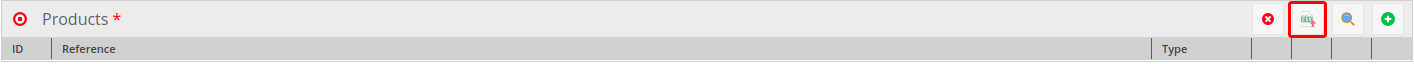
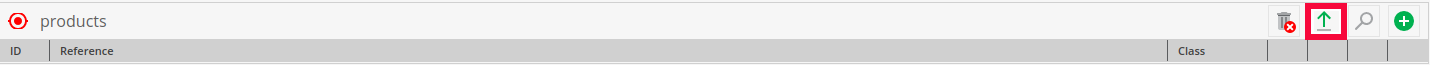
support for pimcore version > 5.6

diff --git a/Resources/public/js/pimcore/helpers.js b/Resources/public/js/pimcore/helpers.js
@@ -24,80 +24,55 @@ pimcore.objectsWithCsv.helpers.listify = function (data, textTobeAttached = null
     return response
 };
 
-pimcore.objectsWithCsv.helpers.showPrettyMessage = function (type, title, text, errorText, stack, code) {
+pimcore.objectsWithCsv.helpers.showPrettyMessage = function (type, title, text, errorText, detailText) {
     // types: info,error,success
-    if (errorText != null && errorText != undefined) {
-        if (t(errorText) != "~" + errorText + "~") {
-            errorText = t(errorText);
-        }
-
-        text = text + '<br /><hr />' +
-            '<span style="font-size:12px">'
-            + '<b>' + errorText + '</b>' +
-            "</span>";
-
-    }
-    if (stack) {
-        stack = str_replace("#", "<br>#", stack);
-        var htmlValue = '<a href="#">' + t("details") + '</a>';
-        var detailedInfo = {
-            xtype: "displayfield",
-            readOnly: true,
-            value: htmlValue,
-            width: 300,
-            listeners: {
-                render: function (c) {
-                    c.getEl().on('click', function () {
-                        var detailedWindow = new Ext.Window({
-                            modal: true,
-                            title: t('details'),
-                            width: 1000,
-                            height: 600,
-                            html: stack,
-                            autoScroll: true,
-                            bodyStyle: "padding: 10px; background:#fff;",
-                            buttonAlign: "center",
-                            shadow: false,
-                            closable: true,
-                            buttons: [{
-                                text: t("OK"),
-                                handler: function () {
-                                    detailedWindow.close();
-                                }
-                            }]
-                        });
-                        detailedWindow.show();
-                    }, c);
-                }.bind(this)
-            }
-        };
+    if (detailText) {
+        detailText =
+            '<pre style="font-size:11px;word-wrap: break-word;">'
+            + detailText +
+            "</pre>";
     }
 
-    if (code) {
-        title = title + " " + code;
-    }
     var errWin = new Ext.Window({
         modal: true,
-        iconCls: 'pimcore_icon_' + type,
+        iconCls: "pimcore_icon_" + type,
         title: title,
-        width: 600,
-
-        layout: 'vbox',
-        items: [
-            {
-                xtype: 'panel',
-                html: text,
-                width: '100%'
-            },
-            detailedInfo
-        ],
+        width: 700,
+        maxHeight: 500,
+        html: text + '<br>' + errorText,
         autoScroll: true,
-        bodyStyle: "padding: 10px; background:#fff;",
+        bodyStyle: "padding: 10px;",
         buttonAlign: "center",
         shadow: false,
         closable: false,
         buttons: [{
-            text: "OK",
+            text: t("details"),
+            hidden: !detailText,
+            handler: function () {
+                errWin.close();
+
+                var detailWindow = new Ext.Window({
+                    modal: true,
+                    title: t('details'),
+                    width: 1000,
+                    height: '95%',
+                    html: detailText,
+                    autoScroll: true,
+                    bodyStyle: "padding: 10px;",
+                    buttonAlign: "center",
+                    shadow: false,
+                    closable: true,
+                    buttons: [{
+                        text: t("OK"),
+                        handler: function () {
+                            detailWindow.close();
+                        }
+                    }]
+                });
+                detailWindow.show();
+            }
+        }, {
+            text: t("OK"),
             handler: function () {
                 errWin.close();
             }
@@ -105,4 +80,21 @@ pimcore.objectsWithCsv.helpers.showPrettyMessage = function (type, title, text, 
     });
     errWin.show();
 
+};
+
+pimcore.objectsWithCsv.helpers.addCsrfTokenToUrl = function (url) {
+
+    // only for /admin urls
+    if(url.indexOf('/admin') !== 0) {
+        return url;
+    }
+
+    if (url.indexOf('?') === -1) {
+        url = url + "?";
+    } else {
+        url = url + "&";
+    }
+    url = url + 'csrfToken=' + pimcore.settings['csrfToken'];
+
+    return url;
 };

diff --git a/Resources/public/js/pimcore/objects/classes/tags/objectsWithCsv.js b/Resources/public/js/pimcore/objects/classes/tags/objectsWithCsv.js
@@ -1,5 +1,5 @@
 pimcore.registerNS('pimcore.object.tags.objectsWithCsv');
-pimcore.object.tags.objectsWithCsv = Class.create(pimcore.object.tags.objects, {
+pimcore.object.tags.objectsWithCsv = Class.create(pimcore.object.tags.manyToManyObjectRelation, {
     type: "objectsWithCsv",
     getEditToolbarItems: function () {
         var toolbarItems = [
@@ -21,7 +21,7 @@ pimcore.object.tags.objectsWithCsv = Class.create(pimcore.object.tags.objects, {
             },
             {
                 xtype: "button",
-                icon: '/bundles/objectswithcsv/img/csv-import.svg',
+                icon: '/bundles/objectswithcsv/img/upload.svg',
                 handler: function () {
                     var objRef = this;
                     var uploadWindowCompatible = new Ext.Window({
@@ -32,9 +32,7 @@ pimcore.object.tags.objectsWithCsv = Class.create(pimcore.object.tags.objects, {
                         modal: true
                     });
 
-                    var url = '/admin/objects-with-csv/parse';
-                    url = pimcore.helpers.addCsrfTokenToUrl(url);
-                    
+                    var url = pimcore.objectsWithCsv.helpers.addCsrfTokenToUrl('/admin/objects-with-csv/parse');
                     var allowedClass = '';
 
                     this.fieldConfig.classes.forEach(function (data) {

diff --git a/Resources/public/js/pimcore/objects/classes/data/objectsWithCsv.js b/Resources/public/js/pimcore/objects/classes/data/objectsWithCsv.js
@@ -1,5 +1,5 @@
 pimcore.registerNS('pimcore.object.classes.data.objectsWithCsv');
-pimcore.object.classes.data.objectsWithCsv = Class.create(pimcore.object.classes.data.objects, {
+pimcore.object.classes.data.objectsWithCsv = Class.create(pimcore.object.classes.data.manyToManyObjectRelation, {
     type: 'objectsWithCsv',
 
     initialize: function (treeNode, initData) {
@@ -35,7 +35,7 @@ pimcore.object.classes.data.objectsWithCsv = Class.create(pimcore.object.classes
      * @returns {string}
      */
     getIconClass: function () {
-        return "pimcore_icon_multihref";
+        return "pimcore_icon_manyToManyObjectRelation";
     }
 
 

diff --git a/ObjectsWithCsvBundle.php b/ObjectsWithCsvBundle.php
@@ -28,6 +28,22 @@ class ObjectsWithCsvBundle extends AbstractPimcoreBundle
      */
     public function getVersion()
     {
-        return '1.0.2';
+        return '2.0.0';
+    }
+
+    /**
+     * Returns the bundle name that this bundle overrides.
+     *
+     * Despite its name, this method does not imply any parent/child relationship
+     * between the bundles, just a way to extend and override an existing
+     * bundle.
+     *
+     * @return string The Bundle name it overrides or null if no parent
+     *
+     * @deprecated This method is deprecated as of 3.4 and will be removed in 4.0.
+     */
+    public function getParent()
+    {
+        // TODO: Implement getParent() method.
     }
 }

diff --git a/Controller/ObjectsWithCsvController.php b/Controller/ObjectsWithCsvController.php
@@ -127,6 +127,7 @@ class ObjectsWithCsvController extends FrontendController
     protected function retrieveDataObjects($allowedClasses, $key, $searchValues)
     {
         $dataObjectsArray = [];
+        $retrievedObjectsIdentifiers = [];
 
         foreach ($allowedClasses as $class) {
             if (class_exists($className = "\\Pimcore\\Model\\DataObject\\" . ucfirst($class))) {

diff --git a/Model/DataObject/ClassDefinition/Data/ObjectsWithCsv.php b/Model/DataObject/ClassDefinition/Data/ObjectsWithCsv.php
@@ -8,9 +8,9 @@
 
 namespace ObjectsWithCsvBundle\Model\DataObject\ClassDefinition\Data;
 
-use Pimcore\Model\DataObject\ClassDefinition\Data\Objects;
+use Pimcore\Model\DataObject\ClassDefinition\Data\ManyToManyObjectRelation;
 
-class ObjectsWithCsv extends Objects
+class ObjectsWithCsv extends ManyToManyObjectRelation
 {
     public $fieldtype = 'objectsWithCsv';
 }

diff --git a/README.md b/README.md
@@ -2,15 +2,15 @@
 
 Facilitates user to upload csv file for bulk attaching to objects datatype using csv upload functionality.
 
-![DataObject Edit Form](/Docs/images/form.png "Dataobject Edit Form")
+![DataObject Edit Form](Docs/images/form.png "Dataobject Edit Form")
 
-![CSV Upload](/Docs/images/upload-modal.png "CSV Upload")
+![CSV Upload](Docs/images/upload-modal.png "CSV Upload")
 
 # Installation
 
 ## Prerequisite
 
-Requires **pimcore > 5.0** and **pimcore < 5.6**
+Requires **pimcore > 5.6**
 
 ### Step 1
 
@@ -28,7 +28,7 @@ Requires **pimcore > 5.0** and **pimcore < 5.6**
 
 - Then `objectWithCsv` would be available in field selector under Relations (Add Data Component -> Relation -> objectsWithCsv)
 
-![objectWithCsv](/Docs/images/data-type.png "objectWithCsv")
+![objectWithCsv](Docs/images/data-type.png "objectWithCsv")
 
 # Sample CSV
 
@@ -38,21 +38,21 @@ Multiple products are to be attached to category in pimcore.
 
 **Product** Dataobject
 
-![product-dataobject](/Docs/images/product.png "Product DataObject")
+![product-dataobject](Docs/images/product.png "Product DataObject")
 
 where `sku` is the unique identifier to identify the `product` objects.
 
 **Category** Dataobject
 
-![product-dataobject](/Docs/images/category.png "Category DataObject")
+![product-dataobject](Docs/images/category.png "Category DataObject")
 
 and the Edit form for Category Objects
 
-![DataObject Edit Form](/Docs/images/form.png "Dataobject Edit Form")
+![DataObject Edit Form](Docs/images/form.png "Dataobject Edit Form")
 
-![CSV Upload](/Docs/images/upload-modal.png "CSV Upload")
+![CSV Upload](Docs/images/upload-modal.png "CSV Upload")
 
-So, In our case. the [sample csv](/Docs/csv/bulk-upload.csv "Sample CSV") be would be like the below :
+So, In our case. the [sample csv](Docs/csv/bulk-upload.csv "Sample CSV") be would be like the below :
 
 ```
 sku
